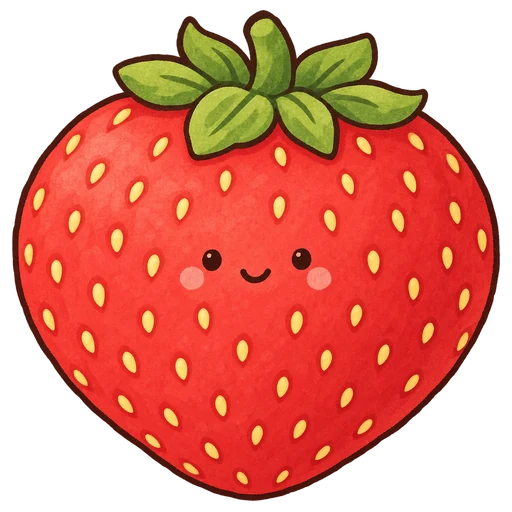
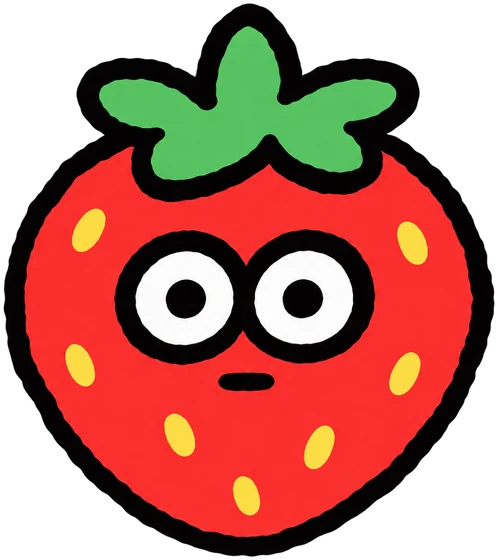
合成大西瓜：換上牛大畫風美術（水果、夾子、道具圖示、射爆特效、背景）
Claude-Session: https://claude.ai/code/session_018pUZarkPkF5ZHiT82tZtdB

diff --git a/app.js b/app.js
@@ -986,7 +986,10 @@ const FRUITS = [['🍒', 4.4, '#f7c6cf'], ['🍓', 5.8, '#f9b4b4'], ['🍇', 7.4
 /* 水果整體縮到 78%：箱子裡空間比較夠，認真玩有機會合出西瓜（原本的大小幾乎不可能） */
 FRUITS.forEach(f => { f[1] = Math.round(f[1] * 0.78 * 100) / 100; });
 const MPTS = [1, 3, 6, 10, 15, 21, 28, 36, 45, 55, 66];
-/* 水果圖（美術畫的 512×512 透明圖，水果主體約佔中間直徑 490 的圓）；圖還沒載好時先用 emoji 代替 */
+/* 水果圖（美術圖已裁好邊）。FART = [主體圓心 x, 圓心 y, 圖寬, 圖高]，主體圓直徑一律 490；圖還沒載好時先用 emoji 代替 */
+const FART = [[251.7, 402.3, 503, 653], [249.2, 310.8, 498, 560], [279.7, 331.2, 538, 581], [249.5, 230.2, 499, 480], [248.8, 137.7, 498, 386], [248.4, 264.1, 497, 513], [248.6, 252.6, 498, 502], [249.3, 244.5, 499, 494], [249.7, 369.6, 499, 619], [248.6, 319.6, 498, 569], [249.1, 314.5, 499, 564]];
+let MBG = null;
+const mbg = () => MBG || (MBG = ['bg_stage', 'shot_hit'].map(n => { const im = new Image(); im.src = 'fruits/' + n + '.webp'; return im; }));
 let FIMG = null;
 const fimgs = () => FIMG || (FIMG = FRUITS.map((f, i) => { const im = new Image(); im.src = 'fruits/f' + String(i + 1).padStart(2, '0') + '.webp'; return im; }));
 const MW = 100, MH = 140, MDANGER = 24, MG = 300, MSOFT = 0.8;
@@ -1020,8 +1023,8 @@ function mGain(G, k) {
 function mItemsUI() {
   const box = $('#mg-items'); if (!box || !MINV) return;
   const G = MG_;
-  box.innerHTML = MITEMS.filter(x => x[0] !== 'revive').map(([k, n]) => '<button class="btn ghost small mg-item' + (G && G.mode === k ? ' on' : '') + '" data-act="mgUse" data-k="' + k + '"' + (!MINV[k] || !G || G.over ? ' disabled' : '') + '>' + n + ' ×' + MINV[k] + '</button>').join('') +
-    '<span class="mg-item-rv">復活 ×' + MINV.revive + '</span>';
+  box.innerHTML = MITEMS.filter(x => x[0] !== 'revive').map(([k, n]) => '<button class="btn ghost small mg-item' + (G && G.mode === k ? ' on' : '') + '" data-act="mgUse" data-k="' + k + '"' + (!MINV[k] || !G || G.over ? ' disabled' : '') + '><img src="fruits/item_' + k + '.webp" alt="">' + n + ' ×' + MINV[k] + '</button>').join('') +
+    '<span class="mg-item-rv' + (MINV.revive ? '' : ' zero') + '"><img src="fruits/item_revive.webp" alt="">復活 ×' + MINV.revive + '</span>';
 }
 function mergeNew() {
   const G = { bag: [], bodies: [], notes: [], mode: '', streakLv: -1, streakN: 0, gotRevive: false, swapAt: 1000, paused: false, bag2: 0, score: 0, next: 0, cur: 0, maxLv: 0, combo: 0, comboT: -9, combos: [], best: 0, bestShown: false, aim: MW / 2, cool: 0, over: false, overT: 0, t: 0, pops: [], saved: false, raf: 0, last: 0 };
@@ -1095,12 +1098,12 @@ function mDraw(G) {
   const g = cv.getContext('2d'), k = r.width / MW;
   g.setTransform(dpr * k, 0, 0, dpr * k, 0, 0);
   g.clearRect(0, 0, MW, MH);
-  g.fillStyle = '#fff7ea'; g.fillRect(0, 0, MW, MH);
+  g.fillStyle = '#fff7ea'; g.fillRect(0, 0, MW, MH); { const bg = mbg()[0]; if (bg.complete && bg.naturalWidth) g.drawImage(bg, 0, 0, MW, MH); }
   g.strokeStyle = G.overT > 0 ? '#e76f6f' : 'rgba(231,111,111,.45)'; g.lineWidth = 0.5; g.setLineDash([2, 2]);
   g.beginPath(); g.moveTo(0, MDANGER); g.lineTo(MW, MDANGER); g.stroke(); g.setLineDash([]);
   const fruit = (x, y, lv, sc) => {
     const f = FRUITS[lv], rr = f[1] * sc, im = fimgs()[lv];
-    if (im.complete && im.naturalWidth) { const d = rr * 2 * 512 / 490; g.drawImage(im, x - d / 2, y - d / 2, d, d); return; }
+    if (im.complete && im.naturalWidth) { const A = FART[lv], s = rr * 2 / 490; g.drawImage(im, x - A[0] * s, y - A[1] * s, A[2] * s, A[3] * s); return; }
     g.beginPath(); g.arc(x, y, rr, 0, Math.PI * 2); g.fillStyle = f[2]; g.fill();
     g.lineWidth = 0.4; g.strokeStyle = 'rgba(74,63,69,.25)'; g.stroke();
     g.font = (rr * 1.25) + 'px "Apple Color Emoji","Segoe UI Emoji","Noto Color Emoji",sans-serif';
@@ -1111,12 +1114,12 @@ function mDraw(G) {
     g.strokeStyle = 'rgba(74,63,69,.18)'; g.lineWidth = 0.4; g.beginPath(); g.moveTo(ax, 10); g.lineTo(ax, MH); g.stroke();
     /* 夾子：夾著水果；放手時打開，等下一顆補上再合起來 */
     const open = G.cool > 0 ? Math.min(1, G.cool / 0.3) : 0, hr = G.cool > 0 ? FRUITS[G.prev == null ? G.cur : G.prev][1] : cr;
-    mClaw(g, G.cool > 0 ? (G.dropX == null ? ax : G.dropX) : ax, 10, hr, open);
     if (G.cool <= 0) fruit(ax, 10, G.cur, 1);
+    mClaw(g, G.cool > 0 ? (G.dropX == null ? ax : G.dropX) : ax, 10, hr, open);
   }
   for (const b of G.bodies) fruit(b.x, b.y, b.lv, b.r / b.R);
   g.textAlign = 'center'; g.font = '6px Naikai, sans-serif';
-  for (const p of G.pops) { const a = (G.t - p.t) / 0.9; g.globalAlpha = 1 - a; g.fillStyle = '#c0546b'; g.fillText(p.s, p.x, p.y - 6 - a * 10); }
+  for (const p of G.pops) { if (p.hit) { const a = (G.t - p.t) / 0.5, im = mbg()[1]; if (a < 1 && im.complete && im.naturalWidth) { const d = p.r * (2.2 + a); g.globalAlpha = 1 - a * a; g.drawImage(im, p.x - d / 2, p.y - d / 2, d, d); } continue; } const a = (G.t - p.t) / 0.9; g.globalAlpha = 1 - a; g.fillStyle = '#c0546b'; g.fillText(p.s, p.x, p.y - 6 - a * 10); }
   for (const n of G.notes) { const a = (G.t - n.t) / 1.8; g.globalAlpha = a < 0.8 ? 1 : (1 - a) * 5; g.font = '6.5px Naikai, sans-serif'; g.fillStyle = '#3b6e5a'; g.strokeStyle = '#fff7ea'; g.lineWidth = 1; g.strokeText(n.s, MW / 2, 68 - a * 4); g.fillText(n.s, MW / 2, 68 - a * 4); }
   g.globalAlpha = 1;
   if (G.mode === 'shot') { g.font = '6px Naikai, sans-serif'; g.fillStyle = '#c0392b'; g.fillText('點一顆水果射爆它', MW / 2, 40); }
@@ -1128,17 +1131,16 @@ function mDraw(G) {
   const nx = $('#mg-next'); if (nx.dataset.lv !== String(G.next)) { nx.dataset.lv = G.next; nx.innerHTML = '<img src="' + fimgs()[G.next].src + '" alt="' + FRUITS[G.next][0] + '">'; }
   const rt = $('#mg-route'); if (rt && rt.dataset.lv !== String(G.maxLv)) { rt.dataset.lv = G.maxLv; mRoute(); }
 }
-/* 夾子：只用美術畫的圖（claw_closed／claw_open，256×256，夾住的球中心 (128,170)、直徑 120、繩子接點 (128,30)）。
-   美術圖還沒到之前 MCLAW_ART = false，不畫夾子（不用程式自己畫來充數）。 */
-const MCLAW_ART = false;
+/* 夾子：美術畫的 claw_closed／claw_open（兩張對齊）。MCA = [夾住的球心 x, 球心 y, 球直徑, 繩子接點 y, 圖寬, 圖高] */
+const MCLAW_ART = true, MCA = [235.8, 381.9, 240, 1.0, 470, 506];
 let MCLAW = null;
 function mClaw(g, x, y, r, open) {
   if (!MCLAW_ART) return;
   if (!MCLAW) MCLAW = ['claw_closed', 'claw_open'].map(n => { const im = new Image(); im.src = 'fruits/' + n + '.webp'; return im; });
   const im = MCLAW[open > 0.5 ? 1 : 0]; if (!im.complete || !im.naturalWidth) return;
-  const s = (r * 2) / 120, w = 256 * s;
-  g.save(); g.strokeStyle = '#6f6458'; g.lineWidth = 0.7; g.beginPath(); g.moveTo(x, -2); g.lineTo(x, y - 140 * s); g.stroke();
-  g.drawImage(im, x - 128 * s, y - 170 * s, w, w); g.restore();
+  const s = (r * 2) / MCA[2], top = y - (MCA[1] - MCA[3]) * s;
+  g.save(); if (top > 0) { g.strokeStyle = '#3b2a24'; g.lineWidth = 0.7; g.beginPath(); g.moveTo(x, -2); g.lineTo(x, top + 0.5); g.stroke(); }
+  g.drawImage(im, x - MCA[0] * s, y - MCA[1] * s, MCA[4] * s, MCA[5] * s); g.restore();
 }
 /* 合成路線：11 種水果排一排，這局合到的亮起來 */
 function mRoute() {
@@ -1163,7 +1165,7 @@ function mShootAt(px, py) {
   const G = MG_; if (!G) return;
   let hit = null; for (const b of G.bodies) { if (Math.hypot(b.x - px, b.y - py) <= b.r * 1.15 && (!hit || b.r < hit.r)) hit = b; }
   if (!hit) { G.notes.push({ t: G.t, s: '沒打到，再點一次' }); return; }
-  G.bodies = G.bodies.filter(b => b !== hit); G.pops.push({ x: hit.x, y: hit.y, t: G.t, s: '砰！' });
+  G.bodies = G.bodies.filter(b => b !== hit); G.pops.push({ x: hit.x, y: hit.y, t: G.t, s: '', hit: 1, r: hit.r });
   MINV.shot--; mInvSave(); G.mode = ''; mItemsUI();
 }
 function mQuake() {

diff --git a/style.css b/style.css
@@ -1256,3 +1256,11 @@ html.mg-open,html.mg-open body{overflow:hidden;overscroll-behavior:none}
 .mg-item-rv{font-size:13px;color:var(--muted);padding:0 4px}
 .mg-stage2.quake{animation:mgQuake .6s ease}
 @keyframes mgQuake{10%,50%,90%{transform:translateX(-6px) rotate(-1deg)}30%,70%{transform:translateX(6px) rotate(1deg)}}
+#mg{background:var(--bg) url(fruits/bg_page.webp) center/cover no-repeat}
+@media (prefers-color-scheme:dark){:root:not([data-theme="light"]) #mg{background-image:none}}
+:root[data-theme="dark"] #mg{background-image:none}
+.mg-item,.mg-item-rv{display:inline-flex;align-items:center;gap:4px}
+.mg-item img,.mg-item-rv img{width:26px;height:26px;display:block}
+.mg-item:disabled img,.mg-item-rv.zero img{filter:grayscale(1);opacity:.5}
+.mg-nextbox #mg-next img,.mg-route img,.mg-over-f{object-fit:contain}
+.mg-route img{aspect-ratio:1}

diff --git a/sw.js b/sw.js
@@ -1,6 +1,6 @@
 /* Ourtwo 離線外殼：網站自己的檔案優先連網更新，沒網路時用快取；Firebase 程式庫版本固定，快取優先。 */
-const CACHE = 'ourtwo-shell-v29';
-const SHELL = ['./', 'index.html', 'style.css?v=22', 'app.js', 'manifest.webmanifest', 'icon-192.png', 'apple-touch-icon.png'];
+const CACHE = 'ourtwo-shell-v30';
+const SHELL = ['./', 'index.html', 'style.css?v=23', 'app.js', 'manifest.webmanifest', 'icon-192.png', 'apple-touch-icon.png'];
 
 self.addEventListener('install', e => {
   e.waitUntil(caches.open(CACHE).then(c => c.addAll(SHELL)).then(() => self.skipWaiting()));

diff --git a/index.html b/index.html
@@ -18,7 +18,7 @@
 <link rel="preconnect" href="https://fonts.gstatic.com" crossorigin>
 <link rel="stylesheet" href="https://fonts.googleapis.com/css2?family=LXGW+WenKai+TC:wght@400;700&family=Noto+Sans+TC:wght@400;500;700&display=swap">
 <link rel="stylesheet" href="fonts/naikai.css?v=1">
-<link rel="stylesheet" href="style.css?v=22">
+<link rel="stylesheet" href="style.css?v=23">
 </head>
 <body>
 
